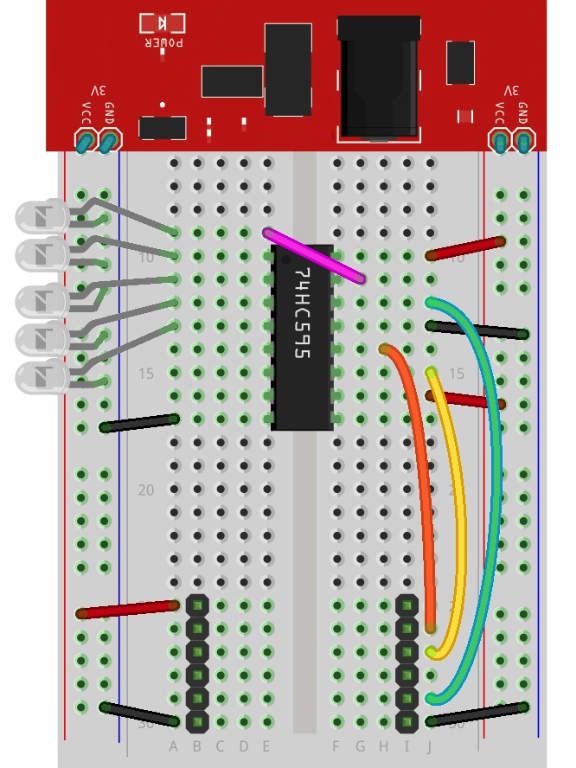
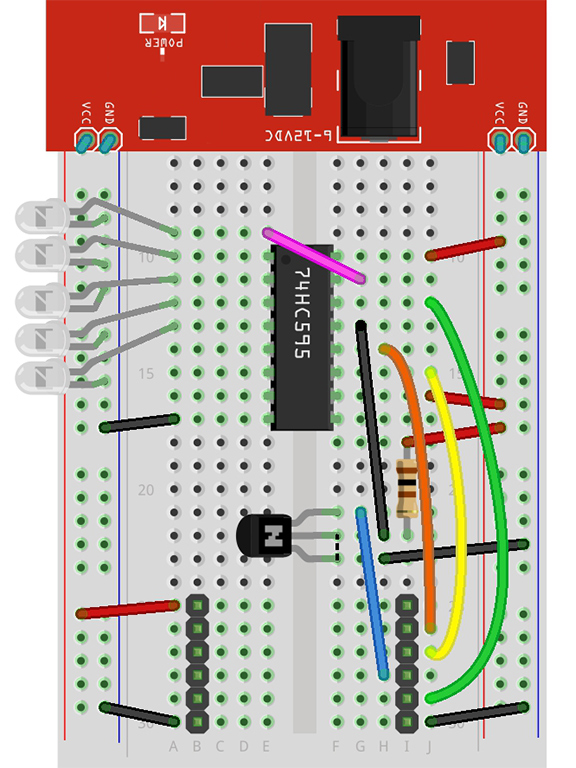
updated images and describtions to show resistor and transistor

diff --git a/README.md b/README.md
@@ -1,5 +1,3 @@
-`-= THIS IS LIVING DOCUMENT =-`
-
 RRBee
 =====
 
@@ -83,11 +81,10 @@ I had couple of [74HC595 Shift Registers](http://www.nxp.com/documents/data_shee
 
 Before I start soldering everything to BeeWi PCB I have to test if it would work. I started putting everything on [Breadboard](http://en.wikipedia.org/wiki/Breadboard). First, Bluetooth breakout board from BeeWi and Shift register, then added simple [power supply](http://en.wikipedia.org/wiki/Power_supply) I had and some [LED](http://en.wikipedia.org/wiki/Light-emitting_diode)'s. Then wrote simple <a href="https://github.com/RolandasRazma/RRBee/tree/master/iOS%20App%20(Mod)">iOS app</a> to set bits as I wanted. Good, now I have 8 independant outputs!
 
-<img src="https://raw.github.com/RolandasRazma/RRBee/master/Hardware/Breakout/breadboard_bt_74HC595.jpg" width="240" alt="Breadboard, BeeWi Bluetooth, Shift register"/>
-<img src="https://raw.github.com/RolandasRazma/RRBee/master/Hardware/Breakout/breadboard_bt_74HC595_power_jumpers.jpg" width="240" alt="Breadboard, BeeWi Bluetooth, Shift register, Jumpers"/>
-<img src="https://raw.github.com/RolandasRazma/RRBee/master/Hardware/Breakout/breadboard_bt_74HC595_power_jumpers_leds.jpg" width="240" alt="Breadboard, BeeWi Bluetooth, Shift register, Jumpers, LED's"/>
-<img src="https://raw.github.com/RolandasRazma/RRBee/master/Hardware/Breakout/breadboard_bt_74HC595_power_jumpers_leds_done.jpg" width="240" alt="Breadboard, BeeWi Bluetooth, Shift register, Jumpers, LED's - assembled"/>
-<img src="https://raw.github.com/RolandasRazma/RRBee/master/Hardware/Breakout/breadboard_bt_74HC595_power_jumpers_leds_done_on.jpg" width="240" alt="Breadboard, BeeWi Bluetooth, Shift register, Jumpers, LED's - assembled, on"/>
+<img src="https://raw.github.com/RolandasRazma/RRBee/master/Hardware/Breakout/breadboard_bt_74HC595_LEDs_transistor_resistor.jpg" width="240" alt="Breadboard, BeeWi Bluetooth pins, Shift register, LEDs, Transistor, Resistor"/>
+<img src="https://raw.github.com/RolandasRazma/RRBee/master/Hardware/Breakout/breadboard_bt_74HC595_LEDs_transistor_resistor_control_jumpers.jpg" width="240" alt="Breadboard, BeeWi Bluetooth pins, Shift register, LEDs, Transistor, Resistor, Control jumpers"/>
+<img src="https://raw.github.com/RolandasRazma/RRBee/master/Hardware/Breakout/breadboard_bt_74HC595_LEDs_transistor_resistor_all_jumpers.jpg" width="240" alt="Breadboard, BeeWi Bluetooth pins, Shift register, LEDs, Transistor, Resistor, Jumpers"/>
+<img src="https://raw.github.com/RolandasRazma/RRBee/master/Hardware/Breakout/breadboard_bt_74HC595_power_jumpers_leds_done_on.jpg" width="240" alt="Breadboard, BeeWi Bluetooth pins, Shift register, LEDs, Transistor, Resistor, Jumpers - assembled, on"/>
 <img src="https://raw.github.com/RolandasRazma/RRBee/master/Hardware/Breakout/breadboard_components.jpg" width="240" alt="Breadboard"/><br />
 
 *__Putting back together__*<br />
